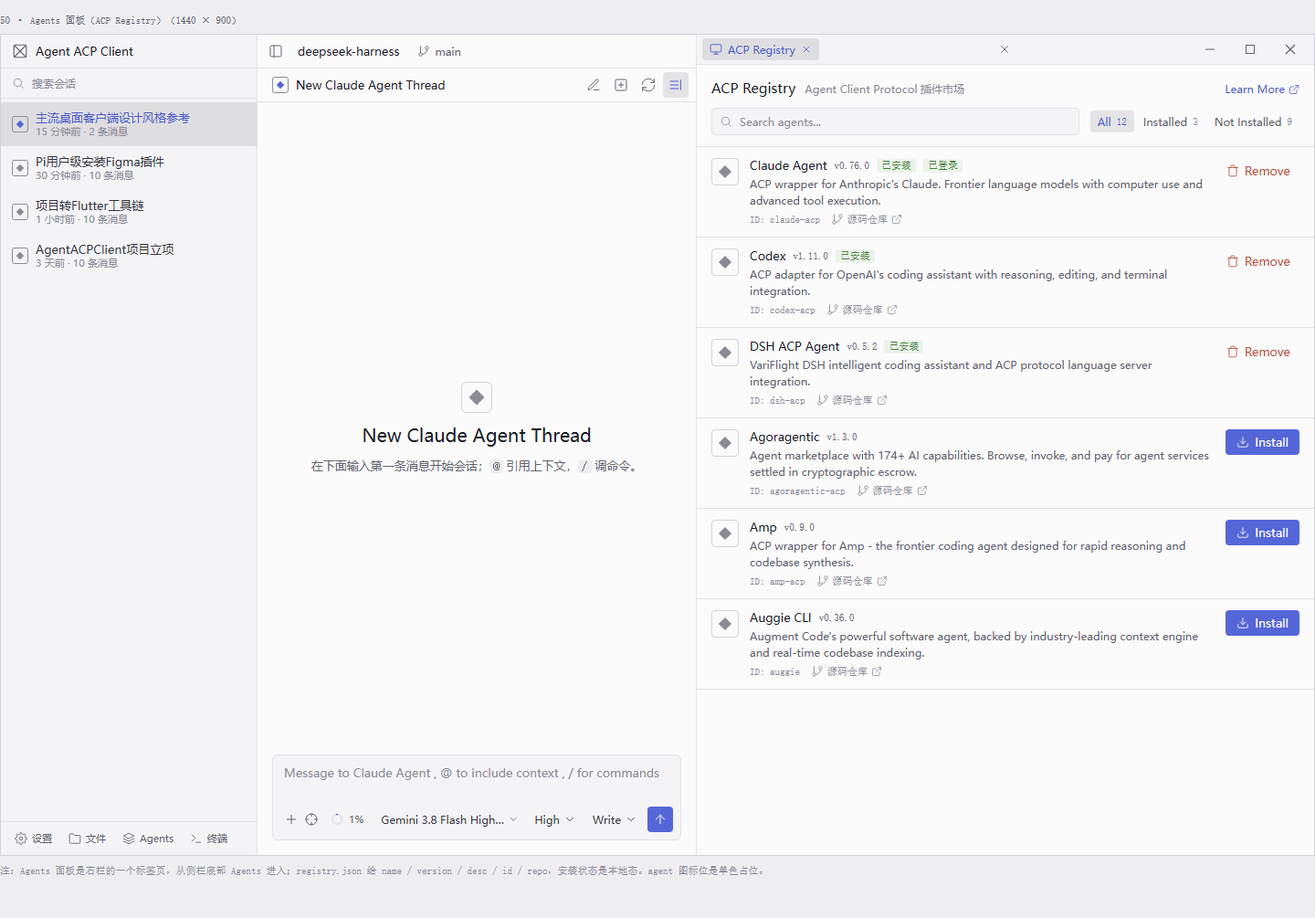
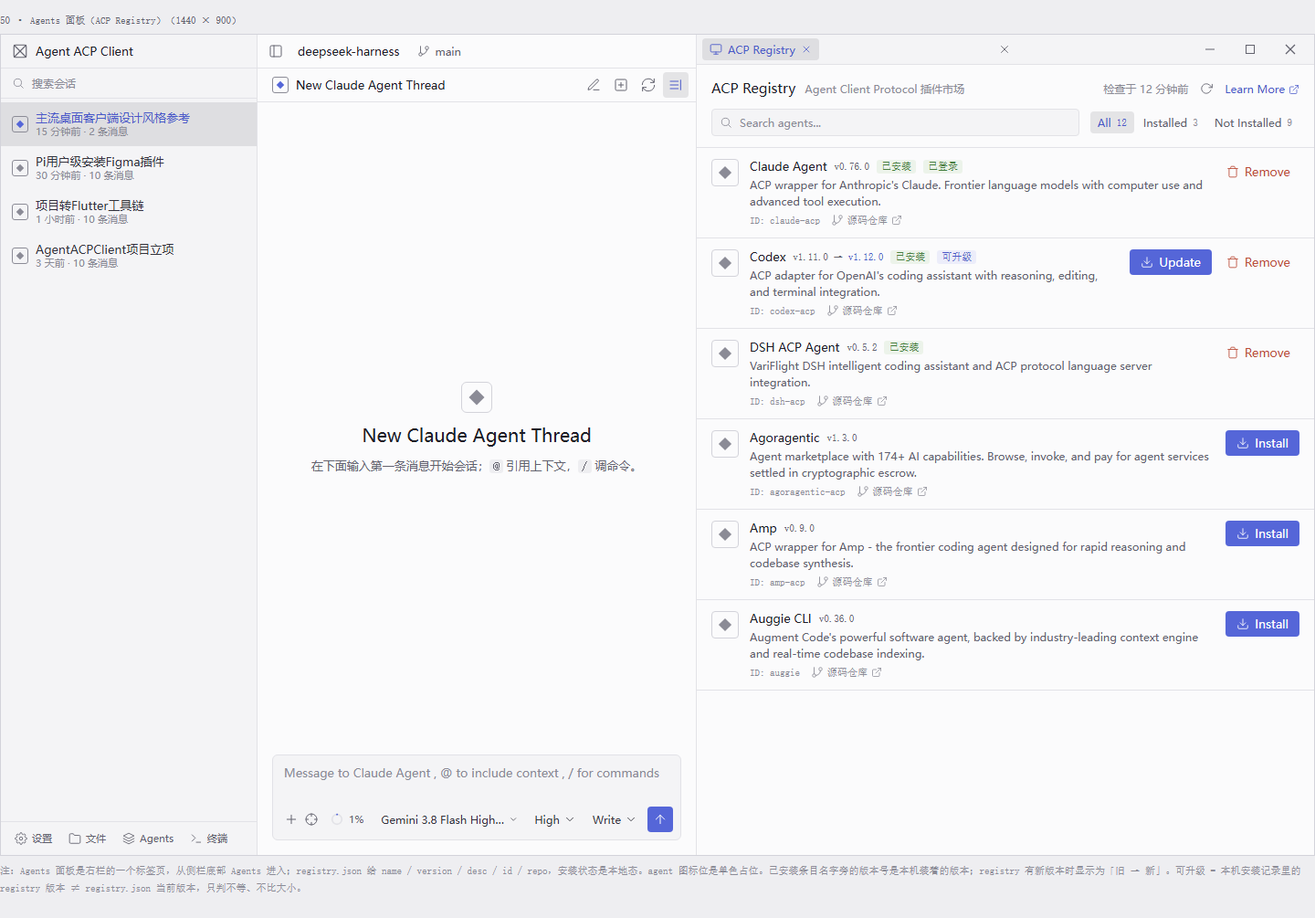
画板 53 入库 + 画板 50 补检查更新与可升级态（设计阶段）
简报 design/round-design/input/revision-06.md。画板 53「Registry 升级态」整份拉回（DesignSync get_file）；
画板 50 没有整份拉回：画布那份 $preview 高 1000、本地 1005，只把三处改动按画布写法插进本地文件。
canvas.json 补画板 53（page-4，x 4080）。

diff --git a/design/round-design/53-registry-upgrade.dc.html b/design/round-design/53-registry-upgrade.dc.html
@@ -1,0 +1,92 @@
+<!DOCTYPE html>
+<html>
+<head>
+<meta charset="utf-8">
+<meta name="viewport" content="width=device-width, initial-scale=1">
+<script src="./support.js"></script>
+</head>
+<body>
+<x-dc>
+<helmet data-dc-atomics><link rel="preconnect" href="https://fonts.googleapis.com"><link rel="preconnect" href="https://fonts.gstatic.com" crossorigin><link href="https://fonts.googleapis.com/css2?family=Geist:wght@400;500&family=Geist+Mono:wght@400;500&family=Noto+Sans+SC:wght@400;500&display=swap" rel="stylesheet"><style>body{margin:0;background:#fbfbfc}a{color:#4a59c9;text-decoration:none}a:hover{color:#3d4cb5}</style></helmet>
+<div data-screen-label="53" style="width:1200px;min-width:1200px;box-sizing:border-box;padding:24px;background:#fbfbfc;font-family:Geist,'Noto Sans SC',system-ui,sans-serif;font-size:13px;color:#33333d;display:flex;flex-direction:column;gap:16px">
+  <div style="display:flex;align-items:baseline;gap:12px;border-bottom:1px solid #e2e2e7;padding-bottom:10px">
+    <span style="font-size:15px;font-weight:500;color:#1e1e26">53 · Registry 升级态</span>
+    <span style="font-size:11px;color:#8b8b96">协议来源：registry.json 的 version · agents/&lt;id&gt;/install.json（本地安装记录）</span>
+  </div>
+
+  <div style="display:flex;flex-direction:column;gap:8px">
+    <div style="font-size:11px;font-weight:500;letter-spacing:.06em;color:#62626e">Agents 面板标题行 · 检查中</div>
+    <div style="width:678px;box-sizing:border-box;border:1px solid #e2e2e7;background:#fbfbfc;padding:16px 16px 12px">
+      <div style="display:flex;align-items:baseline;gap:10px"><span style="font-size:15px;font-weight:500;color:#1e1e26">ACP Registry</span><span style="font-size:12px;color:#8b8b96">Agent Client Protocol 插件市场</span><span style="margin-left:auto;font-size:12px;color:#8b8b96">检查中…</span><span style="align-self:center;width:20px;height:20px;display:flex;align-items:center;justify-content:center;border-radius:4px"><svg width="16" height="16" viewBox="0 0 24 24" fill="none" stroke="#5566d8" stroke-width="2" stroke-linecap="round"><path d="M21 12a9 9 0 1 1-6.2-8.55"></path></svg></span><span style="display:flex;align-items:center;gap:4px;font-size:12px;color:#4a59c9">Learn More<span style="display:inline-flex;color:#4a59c9"><svg width="12" height="12" viewBox="0 0 24 24" fill="none" stroke="currentColor" stroke-width="1.5" stroke-linecap="round" stroke-linejoin="round"><path d="M18 13v6a2 2 0 0 1-2 2H5a2 2 0 0 1-2-2V8a2 2 0 0 1 2-2h6"></path><polyline points="15 3 21 3 21 9"></polyline><line x1="10" y1="14" x2="21" y2="3"></line></svg></span></span></div>
+    </div>
+  </div>
+
+  <div style="display:flex;flex-wrap:wrap;gap:24px;align-items:flex-start">
+    <div style="width:560px;display:flex;flex-direction:column;gap:8px">
+      <div style="font-size:11px;font-weight:500;letter-spacing:.06em;color:#62626e">有新版本</div>
+      <div style="border:1px solid #e2e2e7;border-radius:6px;background:#fbfbfc;overflow:hidden">
+        <div style="display:flex;align-items:flex-start;gap:12px;padding:12px">
+          <span style="width:28px;height:28px;flex:none;border:1px solid #d3d3da;border-radius:4px;display:flex;align-items:center;justify-content:center"><span style="width:10px;height:10px;background:#8b8b96;transform:rotate(45deg)"></span></span>
+          <div style="flex:1;min-width:0;display:flex;flex-direction:column;gap:4px">
+            <div style="display:flex;align-items:center;gap:8px;flex-wrap:wrap"><span style="font-size:13px;font-weight:500;color:#1e1e26">Claude Agent</span><span style="font-family:'Geist Mono',ui-monospace,monospace;font-size:11px;color:#62626e;white-space:nowrap">v0.76.0 → <span style="color:#4a59c9">v0.78.2</span></span><span style="font-family:'Geist Mono',ui-monospace,monospace;font-size:11px;color:#477f40;background:#ecf3ea;border-radius:3px;padding:1px 5px;white-space:nowrap">已安装</span><span style="font-family:'Geist Mono',ui-monospace,monospace;font-size:11px;color:#477f40;background:#ecf3ea;border-radius:3px;padding:1px 5px;white-space:nowrap">已登录</span><span style="font-family:'Geist Mono',ui-monospace,monospace;font-size:11px;color:#4a59c9;background:#ecedfa;border-radius:3px;padding:1px 5px;white-space:nowrap">可升级</span></div>
+            <div style="font-size:12px;line-height:1.5;color:#62626e">ACP wrapper for Anthropic's Claude. Frontier language models with computer use and advanced tool execution.</div>
+          </div>
+          <span style="display:flex;align-items:center;gap:6px"><span style="height:28px;display:flex;align-items:center;gap:6px;padding:0 12px;border-radius:4px;background:#5566d8;color:#ffffff;font-size:13px;white-space:nowrap"><span style="display:inline-flex;color:#ffffff"><svg width="14" height="14" viewBox="0 0 24 24" fill="none" stroke="currentColor" stroke-width="1.5" stroke-linecap="round" stroke-linejoin="round"><path d="M21 15v4a2 2 0 0 1-2 2H5a2 2 0 0 1-2-2v-4"></path><polyline points="7 10 12 15 17 10"></polyline><line x1="12" y1="15" x2="12" y2="3"></line></svg></span>Update</span><span style="height:28px;display:flex;align-items:center;gap:6px;padding:0 10px;border-radius:4px;color:#bc4e39;font-size:13px;white-space:nowrap"><span style="display:inline-flex;color:#bc4e39"><svg width="14" height="14" viewBox="0 0 24 24" fill="none" stroke="currentColor" stroke-width="1.5" stroke-linecap="round" stroke-linejoin="round"><polyline points="3 6 5 6 21 6"></polyline><path d="M19 6v14a2 2 0 0 1-2 2H7a2 2 0 0 1-2-2V6m3 0V4a2 2 0 0 1 2-2h4a2 2 0 0 1 2 2v2"></path></svg></span>Remove</span></span>
+        </div>
+      </div>
+    </div>
+
+    <div style="width:560px;display:flex;flex-direction:column;gap:8px">
+      <div style="font-size:11px;font-weight:500;letter-spacing:.06em;color:#62626e">升级中 · npx（新版本装在旁边，握手通过才切换）</div>
+      <div style="border:1px solid #e2e2e7;border-radius:6px;background:#fbfbfc;overflow:hidden">
+        <div style="display:flex;align-items:flex-start;gap:12px;padding:12px">
+          <span style="width:28px;height:28px;flex:none;border:1px solid #d3d3da;border-radius:4px;display:flex;align-items:center;justify-content:center"><span style="width:10px;height:10px;background:#8b8b96;transform:rotate(45deg)"></span></span>
+          <div style="flex:1;min-width:0;display:flex;flex-direction:column;gap:4px">
+            <div style="display:flex;align-items:center;gap:8px;flex-wrap:wrap"><span style="font-size:13px;font-weight:500;color:#1e1e26">Claude Agent</span><span style="font-family:'Geist Mono',ui-monospace,monospace;font-size:11px;color:#62626e;white-space:nowrap">v0.76.0 → <span style="color:#4a59c9">v0.78.2</span></span><span style="font-family:'Geist Mono',ui-monospace,monospace;font-size:11px;color:#4a59c9;background:#ecedfa;border-radius:3px;padding:1px 5px;white-space:nowrap">upgrading</span></div>
+          </div>
+          <span style="display:flex;align-items:center;gap:8px"><svg width="16" height="16" viewBox="0 0 24 24" fill="none" stroke="#5566d8" stroke-width="2" stroke-linecap="round"><path d="M21 12a9 9 0 1 1-6.2-8.55"></path></svg><span style="height:28px;display:flex;align-items:center;gap:6px;padding:0 10px;border-radius:4px;color:#33333d;font-size:13px;white-space:nowrap">取消</span></span>
+        </div>
+        <div style="padding:0 12px 12px;display:flex;flex-direction:column;gap:6px">
+          <div style="display:flex;align-items:center;gap:8px"><svg width="14" height="14" viewBox="0 0 24 24" fill="none" stroke="#5566d8" stroke-width="2" stroke-linecap="round"><path d="M21 12a9 9 0 1 1-6.2-8.55"></path></svg><span style="font-size:12px;color:#33333d">解析 npx 包 @agentclientprotocol/claude-agent-acp@0.78.2</span></div>
+          <div style="display:flex;align-items:center;gap:8px"><span style="display:inline-flex;color:#8b8b96"><svg width="14" height="14" viewBox="0 0 24 24" fill="none" stroke="currentColor" stroke-width="1.5" stroke-linecap="round" stroke-linejoin="round"><circle cx="12" cy="12" r="8" stroke-dasharray="3.2 3"></circle></svg></span><span style="font-size:12px;color:#8b8b96">首次拉起并握手 initialize</span></div>
+          <div style="font-size:12px;line-height:1.5;color:#8b8b96;padding-top:2px">v0.76.0 仍可正常使用；新版本握手通过后才切换。</div>
+        </div>
+      </div>
+    </div>
+
+    <div style="width:560px;display:flex;flex-direction:column;gap:8px">
+      <div style="font-size:11px;font-weight:500;letter-spacing:.06em;color:#62626e">升级失败（旧版本不受影响）</div>
+      <div style="border:1px solid #e2e2e7;border-radius:6px;background:#fbfbfc;overflow:hidden">
+        <div style="display:flex;align-items:flex-start;gap:12px;padding:12px">
+          <span style="width:28px;height:28px;flex:none;border:1px solid #d3d3da;border-radius:4px;display:flex;align-items:center;justify-content:center"><span style="width:10px;height:10px;background:#8b8b96;transform:rotate(45deg)"></span></span>
+          <div style="flex:1;min-width:0;display:flex;flex-direction:column;gap:4px">
+            <div style="display:flex;align-items:center;gap:8px;flex-wrap:wrap"><span style="font-size:13px;font-weight:500;color:#1e1e26">Claude Agent</span><span style="font-family:'Geist Mono',ui-monospace,monospace;font-size:11px;color:#62626e">v0.76.0</span><span style="font-family:'Geist Mono',ui-monospace,monospace;font-size:11px;color:#477f40;background:#ecf3ea;border-radius:3px;padding:1px 5px;white-space:nowrap">已安装</span><span style="font-family:'Geist Mono',ui-monospace,monospace;font-size:11px;color:#477f40;background:#ecf3ea;border-radius:3px;padding:1px 5px;white-space:nowrap">已登录</span><span style="font-family:'Geist Mono',ui-monospace,monospace;font-size:11px;color:#bc4e39;background:#fbeeea;border-radius:3px;padding:1px 5px;white-space:nowrap">failed</span></div>
+          </div>
+          <span style="display:flex;align-items:center;gap:6px"><span style="height:28px;display:flex;align-items:center;gap:6px;padding:0 12px;border-radius:4px;background:#5566d8;color:#ffffff;font-size:13px;white-space:nowrap">重试</span><span style="height:28px;display:flex;align-items:center;gap:6px;padding:0 10px;border-radius:4px;color:#33333d;font-size:13px;white-space:nowrap">查看日志</span></span>
+        </div>
+        <div style="padding:0 12px 12px;display:flex;flex-direction:column;gap:6px"><div style="font-family:'Geist Mono',ui-monospace,monospace;font-size:12.5px;line-height:1.6;color:#bc4e39;background:#fbeeea;border-radius:4px;padding:8px 10px;white-space:pre-wrap;word-break:break-word">npm error code ETIMEDOUT
+npm error network request to https://registry.npmjs.org/@agentclientprotocol%2fclaude-agent-acp failed</div><div style="font-size:12px;line-height:1.5;color:#8b8b96">升级到 v0.78.2 失败，仍在使用 v0.76.0。</div></div>
+      </div>
+    </div>
+
+    <div style="width:560px;display:flex;flex-direction:column;gap:8px">
+      <div style="font-size:11px;font-weight:500;letter-spacing:.06em;color:#62626e">已升级 · 正在运行的连接仍是旧版</div>
+      <div style="border:1px solid #e2e2e7;border-radius:6px;background:#fbfbfc;overflow:hidden">
+        <div style="display:flex;align-items:flex-start;gap:12px;padding:12px">
+          <span style="width:28px;height:28px;flex:none;border:1px solid #d3d3da;border-radius:4px;display:flex;align-items:center;justify-content:center"><span style="width:10px;height:10px;background:#8b8b96;transform:rotate(45deg)"></span></span>
+          <div style="flex:1;min-width:0;display:flex;flex-direction:column;gap:4px">
+            <div style="display:flex;align-items:center;gap:8px;flex-wrap:wrap"><span style="font-size:13px;font-weight:500;color:#1e1e26">Claude Agent</span><span style="font-family:'Geist Mono',ui-monospace,monospace;font-size:11px;color:#62626e">v0.78.2</span><span style="font-family:'Geist Mono',ui-monospace,monospace;font-size:11px;color:#477f40;background:#ecf3ea;border-radius:3px;padding:1px 5px;white-space:nowrap">已安装</span><span style="font-family:'Geist Mono',ui-monospace,monospace;font-size:11px;color:#477f40;background:#ecf3ea;border-radius:3px;padding:1px 5px;white-space:nowrap">已登录</span></div>
+            <div style="font-size:12px;line-height:1.5;color:#62626e">ACP wrapper for Anthropic's Claude. Frontier language models with computer use and advanced tool execution.</div>
+            <div style="font-size:12px;line-height:1.5;color:#8b8b96">已升级到 v0.78.2。正在运行的 v0.76.0 连接不受影响，在会话头 Reload Agent 或重开应用后生效。</div>
+          </div>
+          <span style="height:28px;display:flex;align-items:center;gap:6px;padding:0 10px;border-radius:4px;color:#bc4e39;font-size:13px;white-space:nowrap"><span style="display:inline-flex;color:#bc4e39"><svg width="14" height="14" viewBox="0 0 24 24" fill="none" stroke="currentColor" stroke-width="1.5" stroke-linecap="round" stroke-linejoin="round"><polyline points="3 6 5 6 21 6"></polyline><path d="M19 6v14a2 2 0 0 1-2 2H7a2 2 0 0 1-2-2V6m3 0V4a2 2 0 0 1 2-2h4a2 2 0 0 1 2 2v2"></path></svg></span>Remove</span>
+        </div>
+      </div>
+    </div>
+  </div>
+  <div style="font-family:'Geist Mono',ui-monospace,monospace;font-size:11px;color:#8b8b96;line-height:1.7">只有 registry 型条目（npx / binary）检查与升级；custom 与内置条目不检查、不出 Update。状态优先级：升级中 &gt; 升级失败 &gt; 需要认证 &gt; 有新版本 &gt; 已安装——需要认证的条目有新版本时仍显示「旧 → 新」与「可升级」芯片，但右侧动作是「登录」，登录完才出 Update。binary 型升级的步骤就是 51「安装中 · binary」那三步（下载 → sha256 校验 → 解压，带进度条），下面加同一行「仍可正常使用」小字，不单画。升级取消后旧版本原样可用，卡片回到「有新版本」。registry 从没拉成功过时，标题行不显示检查时间，只留刷新按钮。</div>
+</div>
+</x-dc>
+<script type="text/x-dc" data-dc-script data-props="{&quot;$preview&quot;:{&quot;width&quot;:1200,&quot;height&quot;:700}}"></script>
+</body>
+</html>

diff --git a/design/round-design/50-registry.dc.html b/design/round-design/50-registry.dc.html
@@ -118,7 +118,7 @@
       </div>
       <div style="flex:1;min-height:0;background:#fbfbfc;display:flex;flex-direction:column">
         <div style="flex:none;padding:16px 16px 12px;border-bottom:1px solid #e2e2e7;display:flex;flex-direction:column;gap:12px">
-          <div style="display:flex;align-items:baseline;gap:10px"><span style="font-size:15px;font-weight:500;color:#1e1e26">ACP Registry</span><span style="font-size:12px;color:#8b8b96">Agent Client Protocol 插件市场</span><span style="margin-left:auto;display:flex;align-items:center;gap:4px;font-size:12px;color:#4a59c9">Learn More<span style="display:inline-flex;color:#4a59c9"><svg width="12" height="12" viewBox="0 0 24 24" fill="none" stroke="currentColor" stroke-width="1.5" stroke-linecap="round" stroke-linejoin="round"><path d="M18 13v6a2 2 0 0 1-2 2H5a2 2 0 0 1-2-2V8a2 2 0 0 1 2-2h6"></path><polyline points="15 3 21 3 21 9"></polyline><line x1="10" y1="14" x2="21" y2="3"></line></svg></span></span></div>
+          <div style="display:flex;align-items:baseline;gap:10px"><span style="font-size:15px;font-weight:500;color:#1e1e26">ACP Registry</span><span style="font-size:12px;color:#8b8b96">Agent Client Protocol 插件市场</span><span style="margin-left:auto;font-size:12px;color:#8b8b96;font-variant-numeric:tabular-nums">检查于 12 分钟前</span><span title="检查更新" style="align-self:center;width:20px;height:20px;display:flex;align-items:center;justify-content:center;border-radius:4px"><span style="display:inline-flex;color:#62626e"><svg width="14" height="14" viewBox="0 0 24 24" fill="none" stroke="currentColor" stroke-width="1.5" stroke-linecap="round" stroke-linejoin="round"><polyline points="23 4 23 10 17 10"></polyline><path d="M20.49 15a9 9 0 1 1-2.13-9.36L23 10"></path></svg></span></span><span style="display:flex;align-items:center;gap:4px;font-size:12px;color:#4a59c9">Learn More<span style="display:inline-flex;color:#4a59c9"><svg width="12" height="12" viewBox="0 0 24 24" fill="none" stroke="currentColor" stroke-width="1.5" stroke-linecap="round" stroke-linejoin="round"><path d="M18 13v6a2 2 0 0 1-2 2H5a2 2 0 0 1-2-2V8a2 2 0 0 1 2-2h6"></path><polyline points="15 3 21 3 21 9"></polyline><line x1="10" y1="14" x2="21" y2="3"></line></svg></span></span></div>
           <div style="display:flex;align-items:center;gap:12px">
             <span style="flex:1;height:28px;display:flex;align-items:center;gap:8px;padding:0 8px;border-radius:4px;background:#f4f4f6;border:1px solid #e2e2e7"><span style="display:inline-flex;color:#8b8b96"><svg width="14" height="14" viewBox="0 0 24 24" fill="none" stroke="currentColor" stroke-width="1.5" stroke-linecap="round" stroke-linejoin="round"><circle cx="11" cy="11" r="7"></circle><line x1="21" y1="21" x2="16.2" y2="16.2"></line></svg></span><span style="font-size:12px;color:#8b8b96">Search agents...</span></span>
             <span style="display:flex;align-items:center;gap:2px">            <span style="height:24px;display:flex;align-items:center;gap:6px;padding:0 8px;border-radius:4px;background:rgba(30,30,38,.10);color:#4a59c9;font-size:12px;white-space:nowrap">All<span style="font-family:'Geist Mono',ui-monospace,monospace;font-size:11px;color:#4a59c9">12</span></span>            <span style="height:24px;display:flex;align-items:center;gap:6px;padding:0 8px;border-radius:4px;color:#62626e;font-size:12px;white-space:nowrap">Installed<span style="font-family:'Geist Mono',ui-monospace,monospace;font-size:11px;color:#8b8b96">3</span></span>            <span style="height:24px;display:flex;align-items:center;gap:6px;padding:0 8px;border-radius:4px;color:#62626e;font-size:12px;white-space:nowrap">Not Installed<span style="font-family:'Geist Mono',ui-monospace,monospace;font-size:11px;color:#8b8b96">9</span></span></span>
@@ -137,11 +137,11 @@
           <div style="display:flex;align-items:flex-start;gap:12px;padding:12px 16px;border-bottom:1px solid #e2e2e7">
             <span style="width:28px;height:28px;flex:none;border:1px solid #d3d3da;border-radius:4px;display:flex;align-items:center;justify-content:center"><span style="width:10px;height:10px;background:#8b8b96;transform:rotate(45deg)"></span></span>
             <div style="flex:1;min-width:0;display:flex;flex-direction:column;gap:4px">
-              <div style="display:flex;align-items:center;gap:8px"><span style="font-size:13px;font-weight:500;color:#1e1e26">Codex</span><span style="font-family:'Geist Mono',ui-monospace,monospace;font-size:11px;color:#62626e">v1.11.0</span><span style="font-family:'Geist Mono',ui-monospace,monospace;font-size:11px;color:#477f40;background:#ecf3ea;border-radius:3px;padding:1px 5px">已安装</span></div>
+              <div style="display:flex;align-items:center;gap:8px"><span style="font-size:13px;font-weight:500;color:#1e1e26">Codex</span><span style="font-family:'Geist Mono',ui-monospace,monospace;font-size:11px;color:#62626e;white-space:nowrap">v1.11.0 → <span style="color:#4a59c9">v1.12.0</span></span><span style="font-family:'Geist Mono',ui-monospace,monospace;font-size:11px;color:#477f40;background:#ecf3ea;border-radius:3px;padding:1px 5px">已安装</span><span style="font-family:'Geist Mono',ui-monospace,monospace;font-size:11px;color:#4a59c9;background:#ecedfa;border-radius:3px;padding:1px 5px;white-space:nowrap">可升级</span></div>
               <div style="font-size:12px;line-height:1.5;color:#62626e">ACP adapter for OpenAI's coding assistant with reasoning, editing, and terminal integration.</div>
               <div style="display:flex;align-items:center;gap:12px"><span style="font-family:'Geist Mono',ui-monospace,monospace;font-size:11px;color:#8b8b96">ID: codex-acp</span><span style="display:flex;align-items:center;gap:4px"><span style="display:inline-flex;color:#8b8b96"><svg width="14" height="14" viewBox="0 0 24 24" fill="none" stroke="currentColor" stroke-width="1.5" stroke-linecap="round" stroke-linejoin="round"><line x1="6" y1="3" x2="6" y2="15"></line><circle cx="18" cy="6" r="3"></circle><circle cx="6" cy="18" r="3"></circle><path d="M18 9a9 9 0 0 1-9 9"></path></svg></span><span style="font-family:'Geist Mono',ui-monospace,monospace;font-size:11px;color:#8b8b96">源码仓库</span><span style="display:inline-flex;color:#8b8b96"><svg width="12" height="12" viewBox="0 0 24 24" fill="none" stroke="currentColor" stroke-width="1.5" stroke-linecap="round" stroke-linejoin="round"><path d="M18 13v6a2 2 0 0 1-2 2H5a2 2 0 0 1-2-2V8a2 2 0 0 1 2-2h6"></path><polyline points="15 3 21 3 21 9"></polyline><line x1="10" y1="14" x2="21" y2="3"></line></svg></span></span></div>
             </div>
-            <span style="height:28px;display:flex;align-items:center;gap:6px;padding:0 10px;border-radius:4px;color:#bc4e39;font-size:13px;white-space:nowrap"><span style="display:inline-flex;color:#bc4e39"><svg width="14" height="14" viewBox="0 0 24 24" fill="none" stroke="currentColor" stroke-width="1.5" stroke-linecap="round" stroke-linejoin="round"><polyline points="3 6 5 6 21 6"></polyline><path d="M19 6v14a2 2 0 0 1-2 2H7a2 2 0 0 1-2-2V6m3 0V4a2 2 0 0 1 2-2h4a2 2 0 0 1 2 2v2"></path></svg></span>Remove</span>
+            <span style="display:flex;align-items:center;gap:6px"><span style="height:28px;display:flex;align-items:center;gap:6px;padding:0 12px;border-radius:4px;background:#5566d8;color:#ffffff;font-size:13px;white-space:nowrap"><span style="display:inline-flex;color:#ffffff"><svg width="14" height="14" viewBox="0 0 24 24" fill="none" stroke="currentColor" stroke-width="1.5" stroke-linecap="round" stroke-linejoin="round"><path d="M21 15v4a2 2 0 0 1-2 2H5a2 2 0 0 1-2-2v-4"></path><polyline points="7 10 12 15 17 10"></polyline><line x1="12" y1="15" x2="12" y2="3"></line></svg></span>Update</span><span style="height:28px;display:flex;align-items:center;gap:6px;padding:0 10px;border-radius:4px;color:#bc4e39;font-size:13px;white-space:nowrap"><span style="display:inline-flex;color:#bc4e39"><svg width="14" height="14" viewBox="0 0 24 24" fill="none" stroke="currentColor" stroke-width="1.5" stroke-linecap="round" stroke-linejoin="round"><polyline points="3 6 5 6 21 6"></polyline><path d="M19 6v14a2 2 0 0 1-2 2H7a2 2 0 0 1-2-2V6m3 0V4a2 2 0 0 1 2-2h4a2 2 0 0 1 2 2v2"></path></svg></span>Remove</span></span>
           </div>
           <div style="display:flex;align-items:flex-start;gap:12px;padding:12px 16px;border-bottom:1px solid #e2e2e7">
             <span style="width:28px;height:28px;flex:none;border:1px solid #d3d3da;border-radius:4px;display:flex;align-items:center;justify-content:center"><span style="width:10px;height:10px;background:#8b8b96;transform:rotate(45deg)"></span></span>
@@ -183,7 +183,7 @@
       </div>
     </div>
   </div>
-  <div style="font-family:'Geist Mono',ui-monospace,monospace;font-size:11px;color:#8b8b96;line-height:1.7;padding-bottom:16px">注：Agents 面板是右栏的一个标签页，从侧栏底部 Agents 进入；registry.json 给 name / version / desc / id / repo，安装状态是本地态。agent 图标位是单色占位。</div>
+  <div style="font-family:'Geist Mono',ui-monospace,monospace;font-size:11px;color:#8b8b96;line-height:1.7;padding-bottom:16px">注：Agents 面板是右栏的一个标签页，从侧栏底部 Agents 进入；registry.json 给 name / version / desc / id / repo，安装状态是本地态。agent 图标位是单色占位。已安装条目名字旁的版本号是本机装着的版本；registry 有新版本时显示为「旧 → 新」。可升级 = 本机安装记录里的 registry 版本 ≠ registry.json 当前版本，只判不等、不比大小。</div>
 </div>
 </x-dc>
 <script type="text/x-dc" data-dc-script data-props="{&quot;$preview&quot;:{&quot;width&quot;:1440,&quot;height&quot;:1005}}"></script>

diff --git a/design/round-design/input/revision-06.md b/design/round-design/input/revision-06.md
@@ -1,0 +1,126 @@
+# AcpAgent Client 设计稿修订 06 · registry agent 的版本检查与升级
+
+> 用法：在原来那个 Claude Design 项目里继续，本文全文作为一条新消息发送。不用重新上传输入包；`00-tokens`、`50`、`51`、`60` 是本次的上下文，画布上已经有了。
+> 本次**只做两件事**：① 画板 50 改两处（标题行加「检查更新」、Codex 那一行换成可升级态）；② 新增画板 53「Registry 升级态」。**画板 51 / 52 不动**，其余画板一律不重绘。
+> 本文里的数值、行为、方向全部是定好的，**照着画，不要替换方案、不要加备选、不要留待定**。哪一条你认为不可行，停下写成画布便签交回，不要自行改成别的做法。
+> **本次不新增 token**：芯片、按钮、步骤列表、进度条、错误块、spinner 全部复用画板 50 / 51 已有的样式。你认为必须新增时，同样写便签交回。
+
+## 0. 要解决的问题与本次裁定
+
+registry 里的 agent 装好之后就停在装的那个版本：registry.json 里版本升了，面板上既不提示、也没有地方点升级。更糟的是，已安装条目名字旁的版本号显示的是 registry 的**最新**版本，装着旧版看着也像最新版。另外 registry 只在应用启动时拉一次，应用开着不会再检查。
+
+裁定（所有者 2026-09-23）：
+
+- **手动升级**，不做自动升级：条目上出 `Update` 按钮，用户点了才升。
+- **可升级的判据**：本机安装记录里的 registry 版本 ≠ registry.json 当前版本。只判不等，不比大小。
+- **新版本装在旧版旁边**，新版本首次握手通过后才切换；升级失败或取消，旧版本原样可用。
+- **不打断正在运行的连接**：升级完成时该 agent 如果正连着，那条连接继续跑旧版，在会话头 `Reload Agent` 或重开应用后才换成新版。
+- **提示只出现在 Agents 面板的条目上**：不加侧栏徽标、不加会话横幅、不加「可升级」过滤标签、不做「全部升级」。
+- **检查时机**：启动时、打开 Agents 面板时（1 小时节流），外加标题行的手动「检查更新」。
+
+---
+
+## 1. 画板 50：改两处
+
+frame 大小（1440 × 1005）与坐标都不变。
+
+### 1.1 标题行加「检查更新」
+
+标题行现在是 `ACP Registry  Agent Client Protocol 插件市场 …… Learn More ↗`。在 `Learn More` **左边**加两样，从左到右：
+
+| 元素 | 规格 |
+|---|---|
+| 检查时间 | `检查于 12 分钟前`。样式同标题行副标题（`Agent Client Protocol 插件市场` 那一档）；相对时间的写法与侧栏会话项的 `15 分钟前` 一致 |
+| 刷新按钮 | ghost 图标按钮，图标 lucide `rotate-cw`，尺寸与规格同画板 60 文件面板标题行的刷新按钮；悬停提示 `检查更新` |
+
+两者之间、与 `Learn More` 之间的间距沿用标题行现有元素的间距。「检查中」那一态画在画板 53（§ 2.1），画板 50 只画空闲态。
+
+### 1.2 Codex 那一行换成「可升级」态
+
+列表第二行 Codex 改成：
+
+- **版本**：`v1.11.0 → v1.12.0`。旧版本号与 `→` 保持现在的 muted 色，新版本号用强调色文字（同 `Learn More` 的文字色），同一档等宽小字。
+- **芯片**：`已安装`（不变）后面追加 `可升级`，accent 色调（同画板 51 `installing` 芯片）。
+- **右侧动作**：`Update`（primary，下载图标，规格同 `Install`）+ 其右的 `Remove`（不变）。两个按钮的间距同画板 51「安装失败」卡上 `重试` 与 `查看日志` 的间距。
+- 描述、ID 行、源码仓库链接不变。
+
+其余各行、过滤标签的计数（All 12 / Installed 3 / Not Installed 9）不变。
+
+### 1.3 画板底部注释追加一句
+
+在现有注释末尾追加：
+
+`已安装条目名字旁的版本号是本机装着的版本；registry 有新版本时显示为「旧 → 新」。可升级 = 本机安装记录里的 registry 版本 ≠ registry.json 当前版本，只判不等、不比大小。`
+
+---
+
+## 2. 新增画板 53 · Registry 升级态
+
+版式照搬画板 51：宽 1200，每个样张上方一行小标题，卡片的尺寸、内边距、图标位、标题行、描述、按钮、步骤列表、错误块全部沿用 51 的对应件。高度按实际内容定。
+
+- 画板标题：`53 · Registry 升级态`
+- 协议来源行：`协议来源：registry.json 的 version · agents/<id>/install.json（本地安装记录）`
+- 四张卡（§ 2.2–2.5）都用 Claude Agent 作样张：已安装、已登录，旧版本 `v0.76.0`，新版本 `v0.78.2`，npm 包 `@agentclientprotocol/claude-agent-acp`。
+
+### 2.1 标题行 · 检查中（顶部，通栏）
+
+小标题：`Agents 面板标题行 · 检查中`
+
+只画画板 50 右栏的标题行那一条，宽度与画板 50 的右栏一致，左对齐：刷新按钮换成 spinner（同画板 51 安装中那一只），时间文字换成 `检查中…`，其余同 § 1.1。
+
+### 2.2 有新版本（第一行左）
+
+小标题：`有新版本`
+
+与 § 1.2 的 Codex 行同一套：版本 `v0.76.0 → v0.78.2`，芯片 `已安装` `已登录` `可升级`，描述照常，右侧 `Update` + `Remove`。
+
+### 2.3 升级中 · npx（第一行右）
+
+小标题：`升级中 · npx（新版本装在旁边，握手通过才切换）`
+
+- 版本 `v0.76.0 → v0.78.2`；芯片只留一个 `upgrading`（accent，写法同 51 的 `installing`）。
+- 步骤列表（样式同 51「安装中 · npx」），**两步**：
+  1. `解析 npx 包 @agentclientprotocol/claude-agent-acp@0.78.2`（进行中，spinner）
+  2. `首次拉起并握手 initialize`（未开始）
+
+  没有「写入 settings.json」这一步：那一条在升级前就有，升级不动它。
+- 步骤下面一行 muted 小字：`v0.76.0 仍可正常使用；新版本握手通过后才切换。`
+- 右侧：spinner + `取消`（同 51）。
+
+### 2.4 升级失败（第二行左）
+
+小标题：`升级失败（旧版本不受影响）`
+
+- 版本只写 `v0.76.0`（本机装着的那个）；芯片 `已安装` `已登录` `failed`（error，同 51）。
+- 错误块（样式同 51「安装失败」），内容两行：
+  - `npm error code ETIMEDOUT`
+  - `npm error network request to https://registry.npmjs.org/@agentclientprotocol%2fclaude-agent-acp failed`
+- 错误块下面一行 muted 小字：`升级到 v0.78.2 失败，仍在使用 v0.76.0。`
+- 右侧：`重试`（primary）+ `查看日志`（同 51）。`重试` = 再升级一次。
+
+### 2.5 已升级 · 待重载（第二行右）
+
+小标题：`已升级 · 正在运行的连接仍是旧版`
+
+- 版本 `v0.78.2`；芯片 `已安装` `已登录`（`可升级` 已消失）。
+- 描述照常；描述下面一行 muted 小字：`已升级到 v0.78.2。正在运行的 v0.76.0 连接不受影响，在会话头 Reload Agent 或重开应用后生效。`
+- 右侧：`Remove`（同已安装态）。
+- 该 agent 的连接重连之后，这行小字消失，卡片回到 51 的「已安装」态。
+
+### 2.6 画板底部注释
+
+`只有 registry 型条目（npx / binary）检查与升级；custom 与内置条目不检查、不出 Update。状态优先级：升级中 > 升级失败 > 需要认证 > 有新版本 > 已安装——需要认证的条目有新版本时仍显示「旧 → 新」与「可升级」芯片，但右侧动作是「登录」，登录完才出 Update。binary 型升级的步骤就是 51「安装中 · binary」那三步（下载 → sha256 校验 → 解压，带进度条），下面加同一行「仍可正常使用」小字，不单画。升级取消后旧版本原样可用，卡片回到「有新版本」。registry 从没拉成功过时，标题行不显示检查时间，只留刷新按钮。`
+
+### 2.7 canvas.json
+
+新增画板 53：`page-4`，`x 4080, y 0`（画板 52 右边，间距 80，与 50 → 51 → 52 一致），`w 1200`，`h` 按实际内容。画板 50 的条目不变。
+
+---
+
+## 3. 交回前自查
+
+- [ ] 画板 50：标题行多了检查时间与刷新按钮，Codex 行是 `v1.11.0 → v1.12.0` + `可升级` + `Update` / `Remove`，底部注释追加了一句；frame 大小与坐标没动。
+- [ ] 画板 53：顶部一条「检查中」标题行 + 两行四张卡（有新版本 / 升级中 · npx / 升级失败 / 已升级 · 待重载）+ 底部注释。
+- [ ] 画板 51 / 52 与其余画板零改动。
+- [ ] 没有新 token、没有新图标（`rotate-cw` 与下载图标都已在画布上）。
+- [ ] 没有画侧栏徽标、会话横幅、「可升级」过滤标签、「全部升级」、自动升级开关。

diff --git a/design/README.md b/design/README.md
@@ -63,9 +63,10 @@
 | 41 | 顶栏与侧栏弹层合集 | 会话工作台 | round-design | `design/round-design/41-topbar-popovers.dc.html` | `design/round-design/41-topbar-popovers.png` | — | 已实现（R3） | — |
 | 42 | 输入框内联菜单 | 会话工作台 | round-design | `design/round-design/42-inline-menus.dc.html` | `design/round-design/42-inline-menus.png` | — | 已实现（R3） | — |
 | 43 | 会话时间线弹层 | 会话工作台 | round-design | `design/round-design/43-session-timeline.dc.html` | `design/round-design/43-session-timeline.png` | — | 已实现（2026-09-20，`session-timeline` 分支） | 新增 `Timeline` 一组（maxHeightFactor / width / rail / railWidth / railColumn / node / nodeColor / label / turnGap）；`TextStyles` 补 `labelTabular`（`label` 加等宽数字，标题行用） |
-| 50 | Agents 面板（ACP Registry） | agent 管理 | round-design | `design/round-design/50-registry.dc.html` | `design/round-design/50-registry.png` | — | 已实现（R5） | — |
+| 50 | Agents 面板（ACP Registry） | agent 管理 | round-design | `design/round-design/50-registry.dc.html` | `design/round-design/50-registry.png` | — | 已实现（R5）· 2026-09-23 标题行加检查时间与刷新、Codex 行换成可升级态（待实现，随画板 53） | — |
 | 51 | Registry 条目状态 | agent 管理 | round-design | `design/round-design/51-registry-states.dc.html` | `design/round-design/51-registry-states.png` | — | 已实现（R5） | — |
 | 52 | agent 认证 | agent 管理 | round-design | `design/round-design/52-auth.dc.html` | `design/round-design/52-auth.png` | — | 已实现（R5） | — |
+| 53 | Registry 升级态 | agent 管理 | round-design | `design/round-design/53-registry-upgrade.dc.html` | `design/round-design/53-registry-upgrade.png` | https://claude.ai/design/p/3add6fd9-05b9-4cbd-9892-dec110c50983?file=53-registry-upgrade.dc.html | 待实现 | — |
 | 60 | 文件面板 | 文件面板 | round-design | `design/round-design/60-files-panel.dc.html` | `design/round-design/60-files-panel.png` | — | 已实现（R4） | — |
 | 61 | 终端面板 | 文件面板（右栏） | round-design | `design/round-design/61-terminal-panel.dc.html` | `design/round-design/61-terminal-panel.png` | — | 已实现（R4） | — |
 | 70 | 设置 | 设置（2026-09-17 起是右栏的一个标签） | round-design | `design/round-design/70-settings.dc.html` | `design/round-design/70-settings.png` | — | 已实现（R5）· 2026-09-17 改为右栏标签（画板本身未改）· 2026-09-22 新增「转录」分组（已实现，随画板 08） | — |
@@ -74,6 +75,8 @@
 状态取值：`待实现` / `已实现（R<N>）` / `已废弃`。
 
 ## 变更记录（入库后对 `.dc.html` 的改动，PNG 已用 `scripts/render-design.ps1` 重渲染）
+
+- 2026-09-23 新增画板 53「Registry 升级态」（1200 × 700，page-4 放在画板 52 右边 `x 4080`），并改画板 50 三处：标题行在 `Learn More` 左边加「检查于 N 分钟前」与刷新按钮（`rotate-cw`，悬停提示「检查更新」）、Codex 行换成可升级态（`v1.11.0 → v1.12.0` + `可升级` 芯片 + `Update` / `Remove`）、底部注释追加可升级的判据。起因是 registry 型 agent 装好之后没有检查与升级（BACKLOG「装好的 agent 没有升级入口」）；所有者裁定：手动升级不做自动升级、判据是「安装记录里的 registry 版本 ≠ registry.json 当前版本」只判不等、新版本装在旧版旁边握手通过才切换、不打断正在运行的连接、提示只在 Agents 面板条目上。画板 53 画了五样：标题行「检查中」、有新版本、升级中 · npx（两步 + 「旧版仍可用」小字）、升级失败（旧版不受影响）、已升级 · 待重载（运行中的连接仍是旧版）。**画板 51 不动**：它下方 120 px 就是画板 61，往里加卡片要挪整页。**画板 50 没有整份拉回**：画布那份的 `$preview` 高度是 1000、本地是 1005（本地自 `72e2be1` 未改过），只把三处改动按画布的写法插进本地文件，PNG 尺寸不变。无新 token、无新图标。简报 `design/round-design/input/revision-06.md`。
 
 - 2026-09-22 新增画板 08「交互增强」（画布上原有三段，本次修订后第一次入库并渲 PNG，1440 × 1586），并给画板 70 加「转录」分组（frame 900 → 1010，`$preview` 1005 → 1110）。起因是三条交互诉求，做过协议核查后所有者裁定：**A「回复中的 token 速度标签」整段删除不做** —— 流式期间协议给不出输出 token（`usage_update.used` 是会话级上下文占用而非输出 token，四家 agent 口径还各不相同：claude-agent-acp 每个 `message_delta` 发一次、codex-acp 每次 response 完成发一次、dsh-acp-interactive 的 `used` 不含 output、pi-acp 根本不发；`session/update` 里也没有时间戳），回合级真值只有 `PromptResponse.usage`，回合结束才到，那是画板 31 页脚已经在做的事，**画板 31 因此零改动、不加平均速度**。保留的 B（回合折叠）与 C（在跑数徽标）**段落字母不重排**。B 的三处收口：「最终助手文本」= 该回合最后一段连续的 agent 文本，工具调用之间穿插的文本进折叠块；摘要行第二行的模型名取回合开始时的快照、中途换模型不改（原「模型 A → 模型 B」一行删去），agent 没有 model 配置时退化成单行；画板 43 的时间线跳到折叠块里的目标时先展开该回合再滚（画板 43 本身不改）。C 的口径改写：徽标挂「本次运行里打开过、内存里还有在跑会话」的工作区，不分 This Window 与 Recent Projects —— 原来的「Recent Projects 恒无徽标」配上本应用一个窗口只开一个工作区，会让触发钮的合计恒等于当前工作区的数，等于白做；弹层样张据此重画（This Window 一行、Recent Projects 里一行带徽标）。画板自带「本画板新增 token」表（`badge.*` 2 项 + `fold.*` 2 项），画板 00 不改，实现回写 `tokens.dart`。简报 `design/round-design/input/revision-05.md`。**顺带补齐**：`canvas.json` 里一直缺画板 07 的条目（2026-09-20 入库时漏登），本次与 08 一起补上。
 - 2026-09-20 新增画板 07「深色 Token 对位表」（画布上已有，本次整份拉回入库并渲 PNG，1440 × 1760）。它是画板 00 深色区的完整版本：**一个浅色 token 名对应且只对应一个深色值**，中性 10 + 强调 6 + 语义 8 + popover 表面 1 + 阴影 1 共 26 项全部填满，无深色专有 token；另加「跟随派生」「代码高亮」「终端 ANSI」三小节说明不新增 token 的那些。相对画板 00 的深色区有两处变动：补 `d.strong` #f0f0f4，原第 10 档 `d.accent` 挪进强调色小节并改名 `d.accent.base`（画板 00 未改，gallery 的画板 00 对照页仍按旧表排）。实现按本表落地，**切换按钮本身画板上没有**（所有者 2026-09-20 指图放在侧栏标题条右端），见 [`DIVERGENCE.md`](DIVERGENCE.md) A 节第 2 条。画板自己写明的后续三张深色页面画板（90 工作台整屏 / 91 转录卡片合集 / 92 弹层与叠色）与画板 70「外观」小节都还没出。
